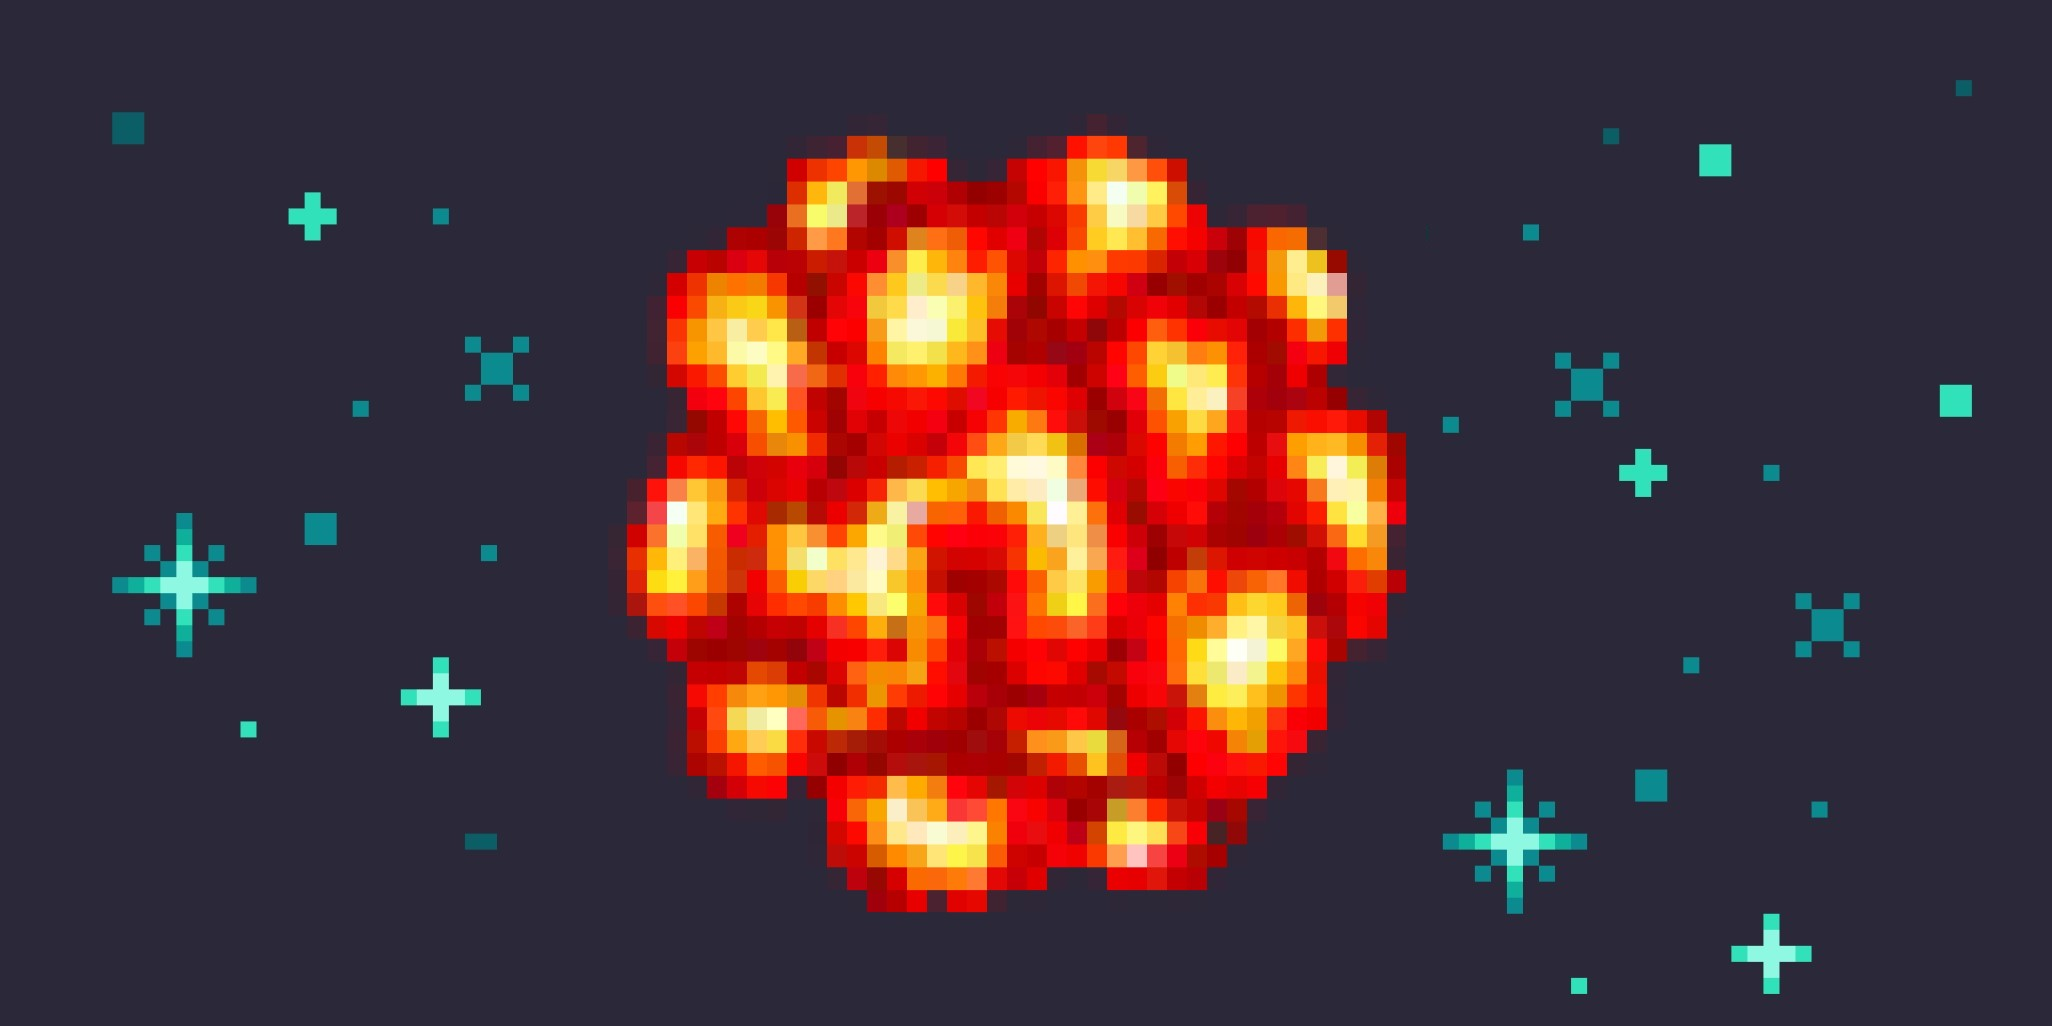
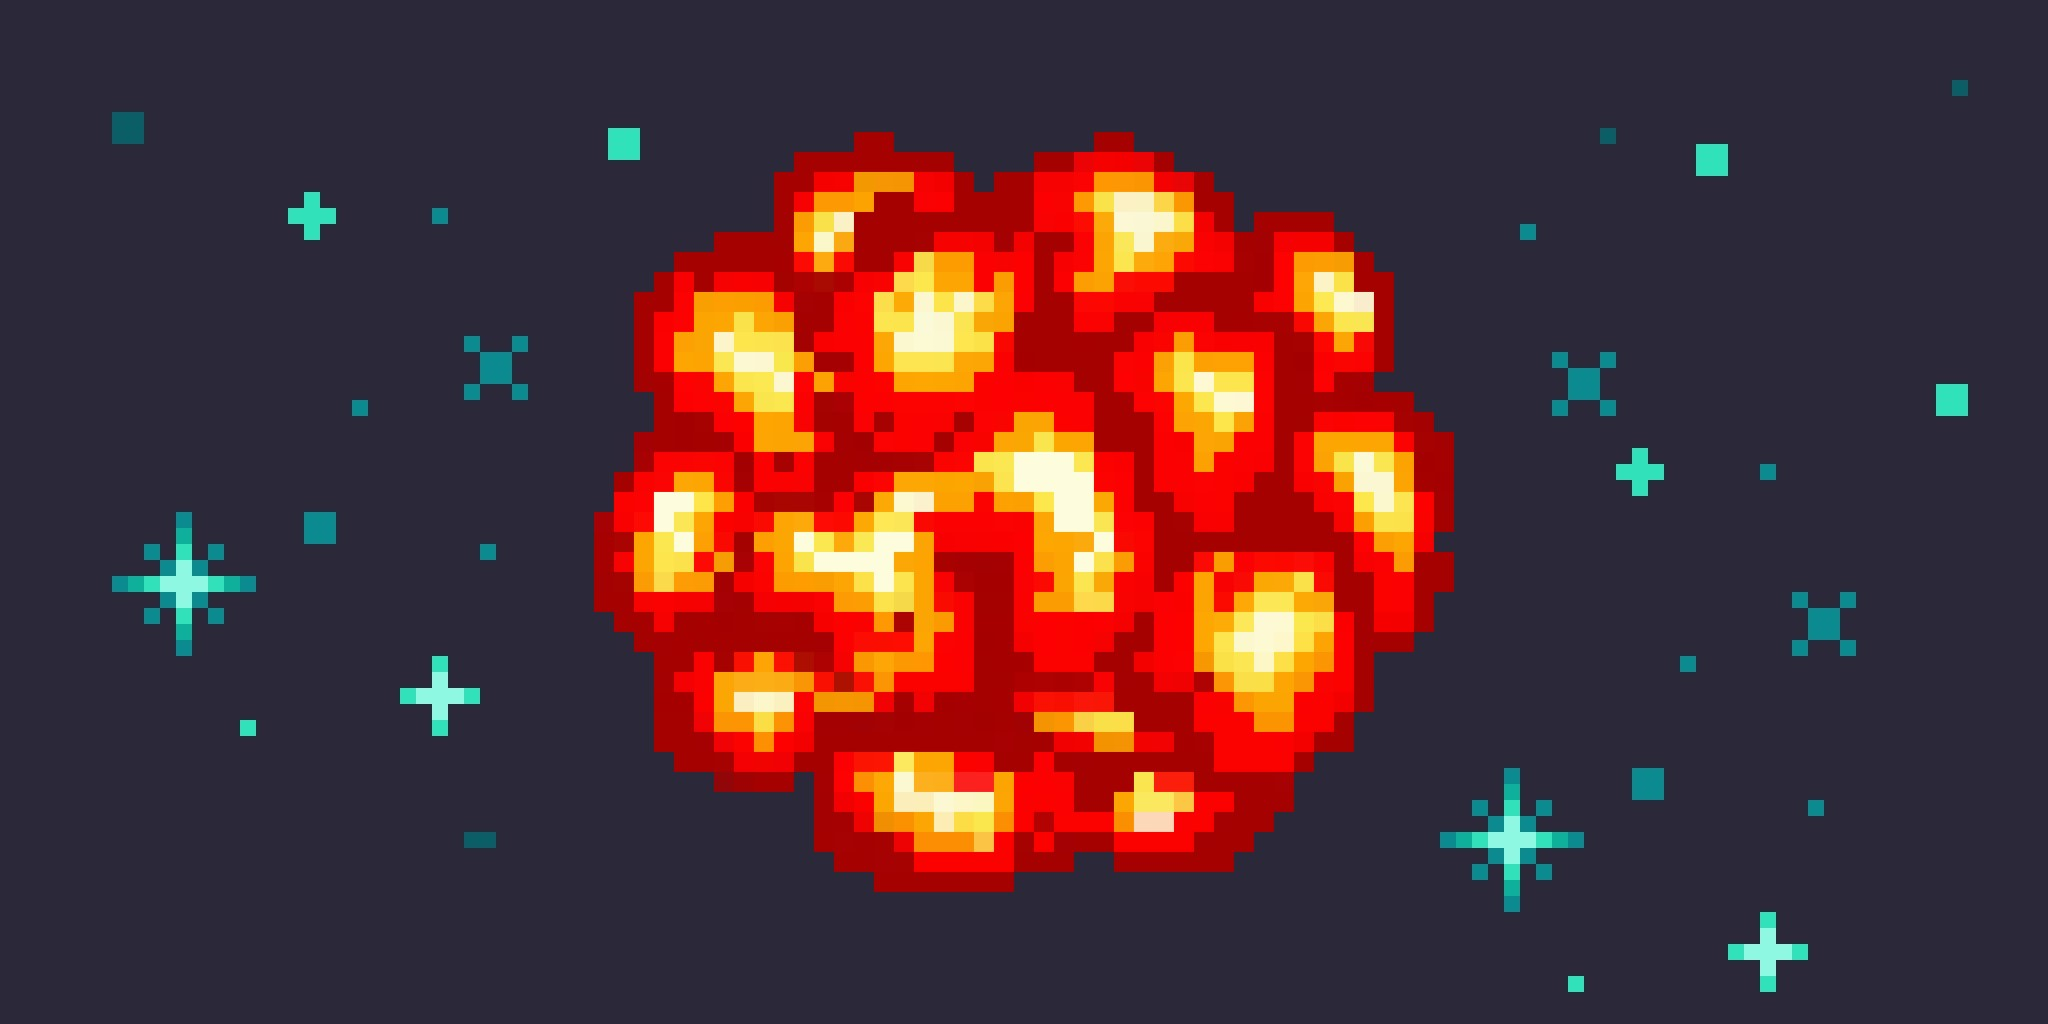
feat: changing background images (less pixelised)

Changed region(s): [[0.2812, 0.125, 0.7188, 0.9062], [0.2812, 0.125, 0.3125, 0.1562]]

diff --git a/src/events.py b/src/events.py
@@ -1,7 +1,7 @@
 from .global_var import *
 
+def events(player: Player | None = None):
 
-def events(player: Player | None = None) -> None:
     """Fonction de détection des évènements"""
     for evenement in pygame.event.get():
         # Détection de la fermeture de la fenêtre
@@ -17,14 +17,21 @@ def events(player: Player | None = None) -> None:
         ):  # L'evénement est un clic sur la souris
             pos = pygame.mouse.get_pos()  # Récupère la position de la souris
             if Texts_game["Pause"].rect.collidepoint(pos):
+                print("TTTTTTTTTTTTTTTTTTTTTTTTTTTTTT")
                 # Active ou déscactive la pause quand le joueur clique dessus
                 if not game_data["pause"]:
-                    game_data["pause"] = True
+                    print("eeeeeeeeeeeeeeeee")
+                    game_data["pause"] = not game_data["pause"]
                     pause_text = Text("Jeu en Pause", (0, 0), 50, True, (42, 40, 57))
                     """Texte de pause"""
                     pause_text.show()
+
+                    print(game_data["pause"])
                 else:
-                    game_data["pause"] = False
+                    print("eeeeeeeeeeeeeeeeeeeTTTTEEEEE")
+                    game_data["pause"] = not game_data["pause"]
+                pygame.time.wait(200)
+
 
             if not game_data["pause"]:
                 # Effectue tous les evènements normaux du jeu si celui-ci n'est pas en pause (si oui  tout est figé)
@@ -46,3 +53,5 @@ def events(player: Player | None = None) -> None:
                 if Texts_end[0].rect.collidepoint(pos):
                     # Stope la boucle du menu de fin ce qui relance une partie (nouvelle itération dans la boucle `while True` située dans le menu)
                     game_data["jeu_en_cours"] = False
+
+    return game_data

diff --git a/src/game.py b/src/game.py
@@ -19,6 +19,8 @@ def game() -> None:
     pygame.mixer.music.play(-1)
 
     while game_data["jeu_en_cours"]:
+        game_data = events(player)
+
         if not game_data["pause"]:
             player.back_show()
             player.check_level()
@@ -55,8 +57,15 @@ def game() -> None:
             Screen.blit(level_text.text, level_text.rect)
 
             pygame.display.update()
+            
+            clock.tick(60)
+        else:
+            Texts_game["Pause"].show()
+            pause_text = Text("Jeu en Pause", positions=(400, 300), fixed=True)
+            Screen.blit(pause_text.text, pause_text.rect)
+            pygame.display.update()
 
-        events(player)
+            clock.tick(10)
 
         if player.score_var < 0:
             # Si le joueur à moins de 0 points, il perd

diff --git a/src/menu.py b/src/menu.py
@@ -8,12 +8,15 @@ from .global_var import *
 def menu() -> None:
     """Menu de démarage du jeu"""
 
+    background_image = pygame.image.load("Static/Images/earth_pix.jpg").convert_alpha()
+
     # Boucle d'affichage du menu
     while game_data["jeu_en_cours"]:
         # Affichage du fond
+
         Screen.blit(
-            pygame.image.load("Static/Images/earth_pix.jpg"),
-            pygame.image.load("Static/Images/earth_pix.jpg").get_rect(
+            background_image,
+            background_image.get_rect(
                 center=Screen.get_rect().center
             ),
         )

diff --git a/src/global_var.py b/src/global_var.py
@@ -41,3 +41,5 @@ Lose_sound = pygame.mixer.Sound("Static/Sounds/lose.wav")
 """Son de défaite"""
 Win_sound = pygame.mixer.Sound("Static/Sounds/win.wav")
 """Son de victoire"""
+
+clock = pygame.time.Clock()
